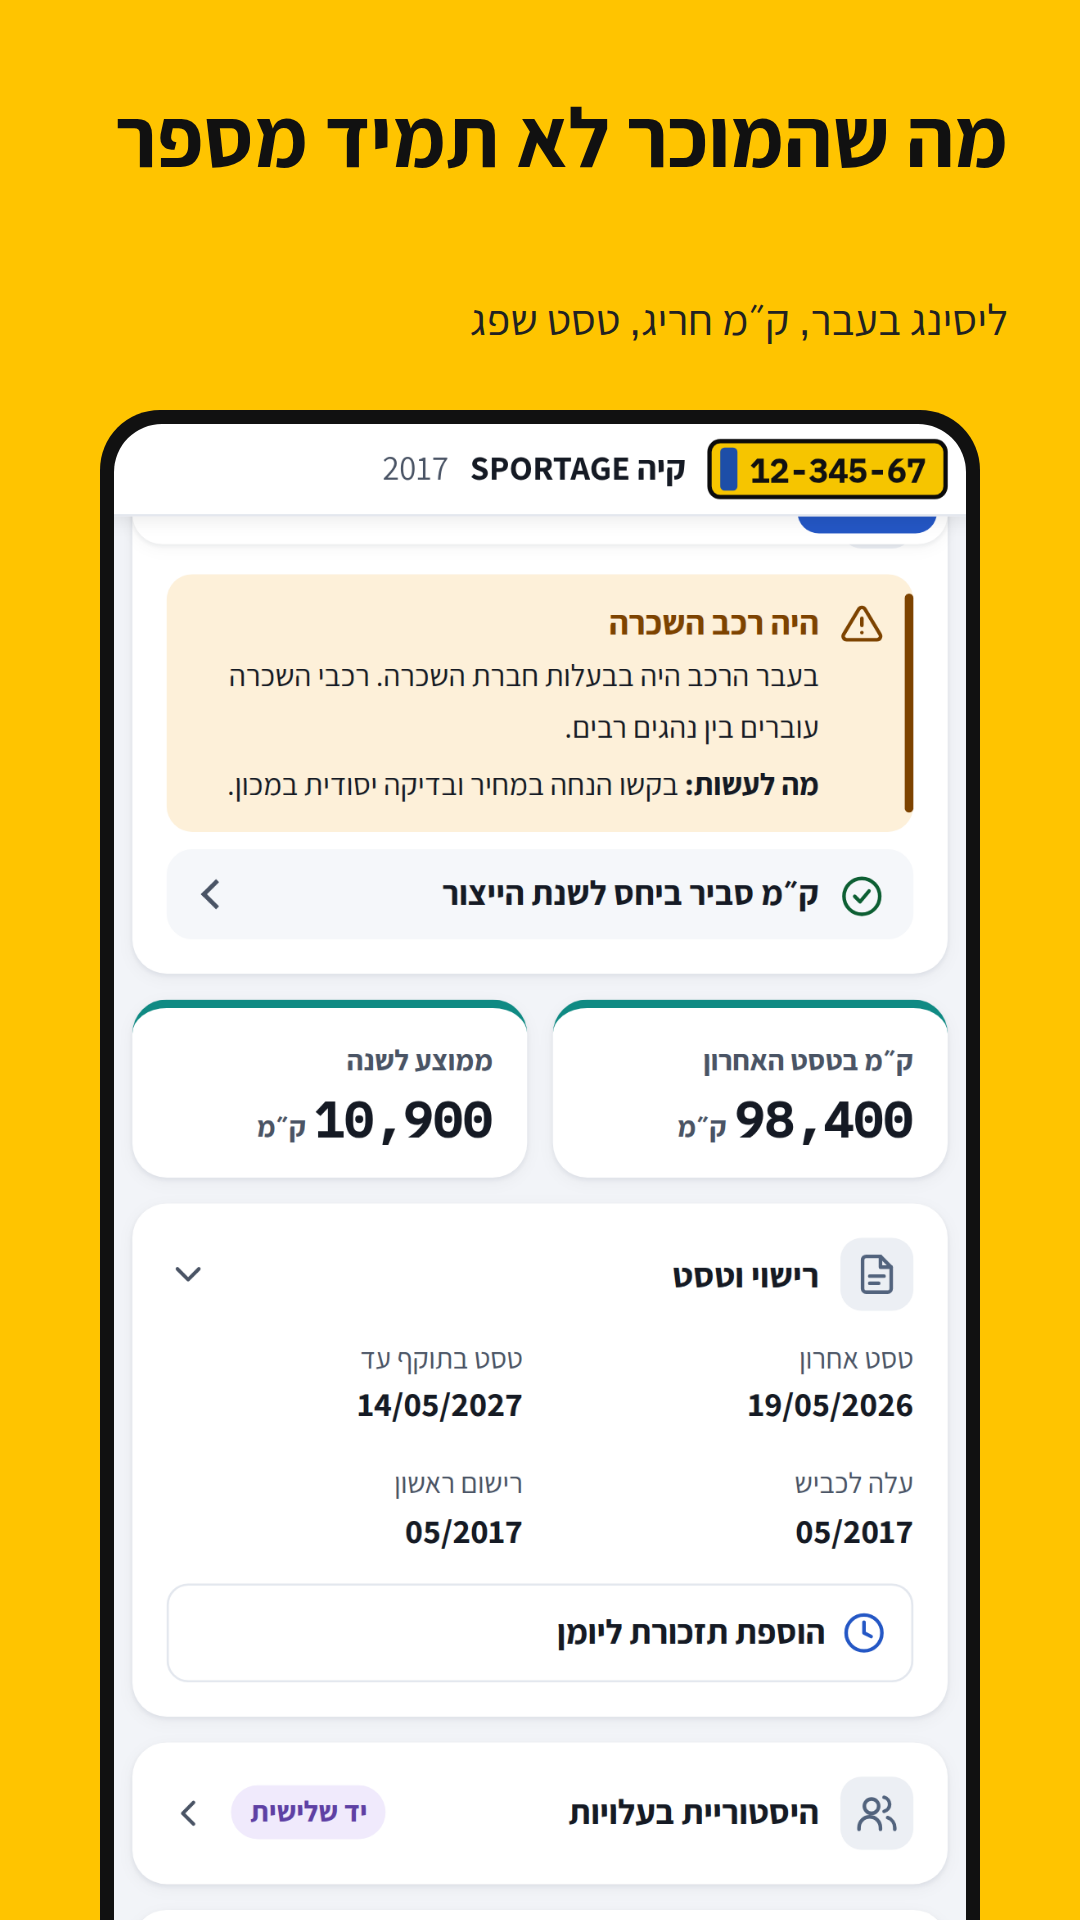
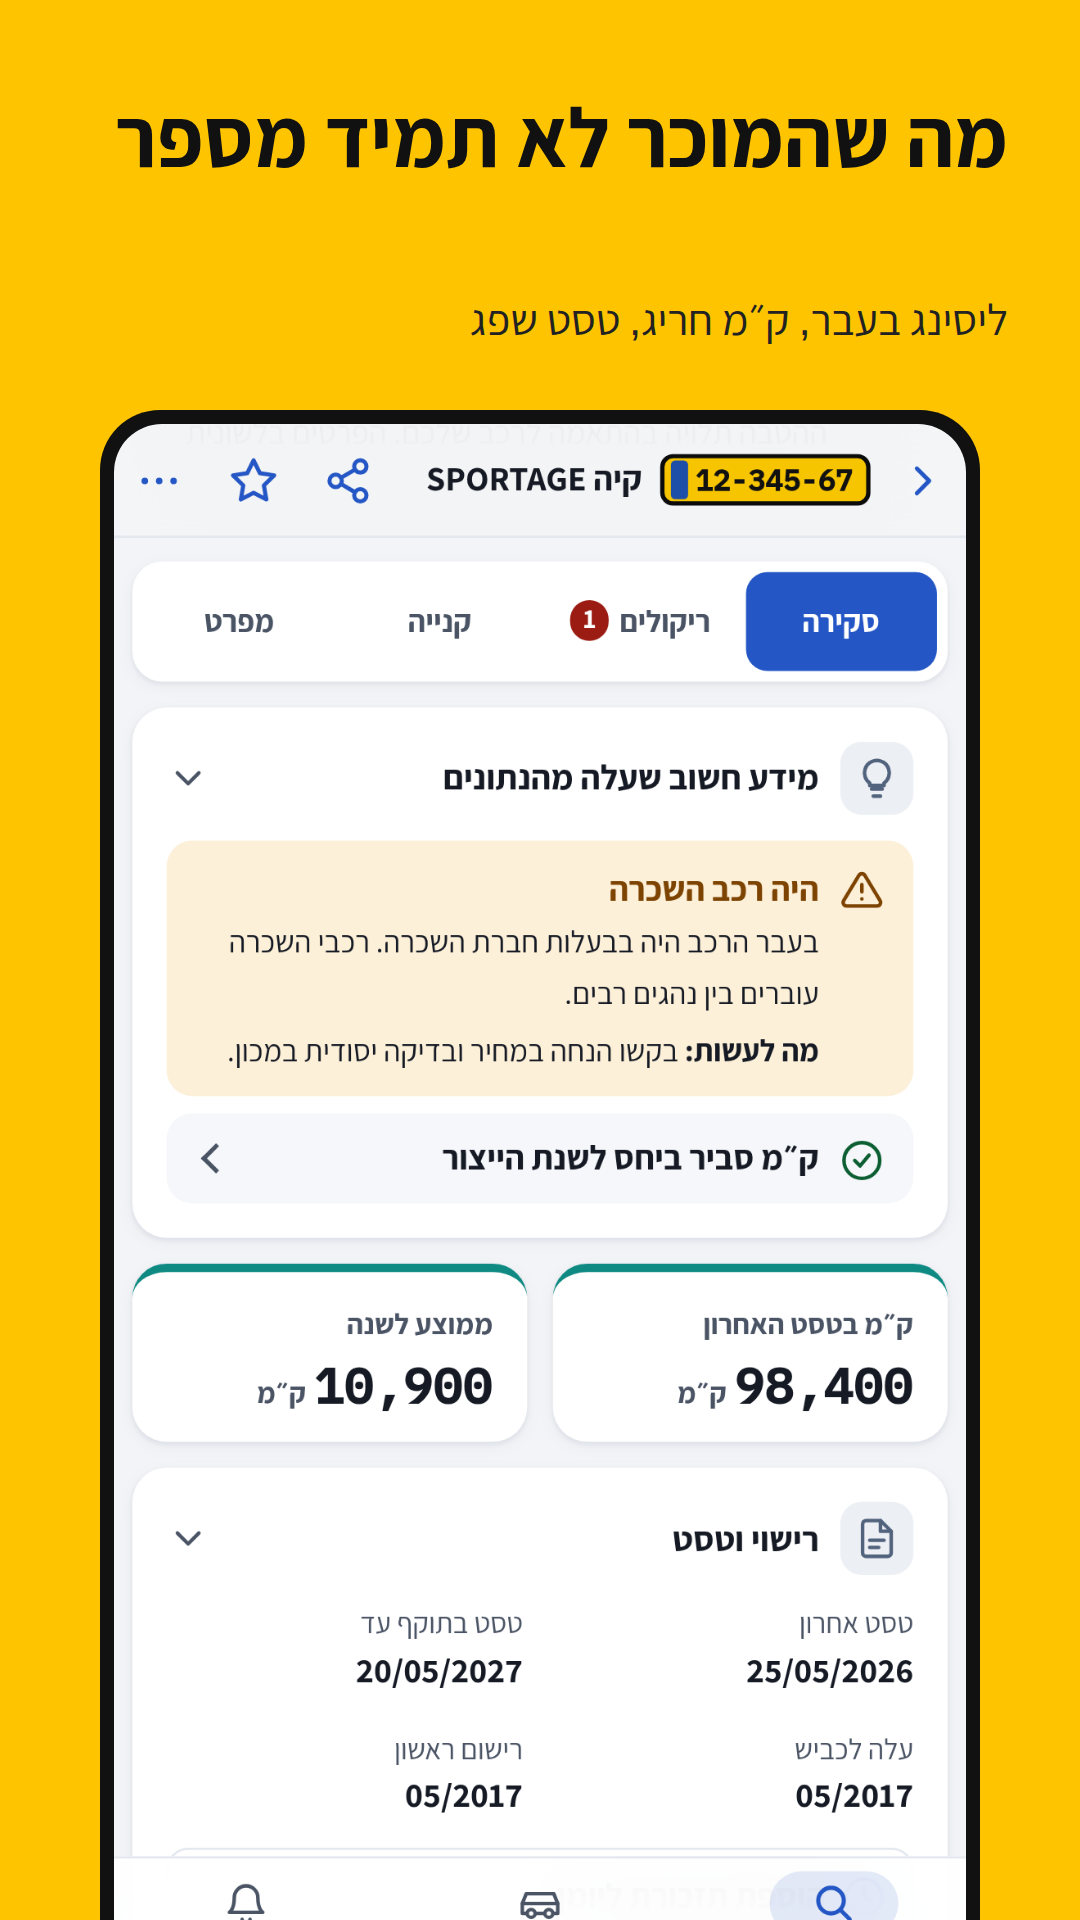
Release audit: store screenshots of the new UI, a screens pass in the UI guardian, 40px tap targets
- Store screenshots retaken on the new UI (bottom bar, car header, "תיק הרכב" in place of the old costs tab).
- ui-guardian also opens home (new and returning), "הרכבים שלי" (list, table, empty), "התראות" and a tool,
  and checks each shows its own header, keeps the bottom bar, shows the search band only on home and never overflows.
- View toggle, filter chips, alert actions, plate buttons and table rows reach 40px; the recent-updates plate
  matches the alert items. A link inside a sentence is exempt from the tap-size count, as in WCAG 2.5.8.

Claude-Session: https://claude.ai/code/session_01Hcz5PRF5bg4nFBWTs1PoVE

diff --git a/index.html b/index.html
@@ -511,7 +511,7 @@ textarea.inp{font-family:var(--f-num);min-height:110px;resize:vertical}
 .bulk-acts{display:flex;flex-direction:column;gap:8px;margin-top:8px}
 .rep-brand.biz{background:var(--soft,#f2f4f8);border-bottom:3px solid #1d4ea8;border-radius:10px}.rep-brand.biz img{width:48px;height:48px;object-fit:contain;border-radius:8px;box-shadow:none}.rep-brand.biz b{font-size:1.3rem}
 .ft{width:100%;border-collapse:collapse;font-size:.9rem}.ft td,.ft th{padding:8px 4px;border-top:1px solid var(--line);text-align:center}.ft td:first-child,.ft th:first-child{text-align:start}.ft th{font-size:.78rem;color:var(--muted);font-weight:600;border-top:0}button.lnk{border:0;background:none;padding:0;font:inherit;font-weight:700;color:var(--accent);text-decoration:underline;text-underline-offset:2px;cursor:pointer}
-.ft button.lnk small{display:block}.ft td.svl small{display:block;color:var(--muted);font-size:.75rem}.ft button.lnk b{white-space:nowrap}.ft td small.rc{display:block;font-size:.75rem;font-weight:700}.ft button.lnk{border:0;background:none;color:inherit;text-decoration:none;font-weight:inherit;font:inherit;text-align:start;padding:0;display:block}
+.ft button.lnk small{display:block}.ft td.svl small{display:block;color:var(--muted);font-size:.75rem}.ft button.lnk b{white-space:nowrap}.ft td small.rc{display:block;font-size:.75rem;font-weight:700}.ft button.lnk{border:0;background:none;color:inherit;text-decoration:none;font-weight:inherit;font:inherit;text-align:start;padding:0;display:block;min-height:40px}
 .mk-seg{margin-bottom:10px}.mk-chips{display:flex;gap:6px;flex-wrap:wrap;margin:8px 0 2px}
 .mk-chips button{border:1px solid var(--line);background:var(--card);color:var(--fg);border-radius:999px;padding:6px 12px;font-weight:700}
 .mk-chips button[aria-pressed="true"]{background:var(--fg);color:var(--card);border-color:var(--fg)}
@@ -686,10 +686,10 @@ html.web main#out > .chead{grid-column:1/-1}
 .dot.ok{color:var(--t-green);background:var(--t-green)}.dot.warn{color:var(--t-amber);background:var(--t-amber)}.dot.bad{color:var(--t-red);background:var(--t-red)}
 /* list or table: one switch, the same cars */
 .vseg{display:grid;grid-template-columns:1fr 1fr;padding:4px;border-radius:14px;background:color-mix(in srgb,var(--accent) 10%,transparent)}
-.vseg button{border:0;background:none;height:36px;border-radius:11px;font-weight:800;color:var(--accent)}
+.vseg button{border:0;background:none;height:40px;border-radius:11px;font-weight:800;color:var(--accent)}
 .vseg button[aria-selected=true]{background:var(--accent);color:var(--accent-fg);box-shadow:0 6px 16px -8px var(--accent)}
 .fchips{display:flex;gap:8px;overflow-x:auto;scrollbar-width:none;margin-inline:-16px;padding-inline:16px}.fchips::-webkit-scrollbar{display:none}
-.fchips button{flex:0 0 auto;height:34px;padding:0 14px;border-radius:999px;border:1px solid var(--line);background:var(--card);color:var(--muted);font-weight:700;font-size:.9rem}
+.fchips button{flex:0 0 auto;height:40px;padding:0 14px;border-radius:999px;border:1px solid var(--line);background:var(--card);color:var(--muted);font-weight:700;font-size:.9rem}
 .fchips button[aria-pressed=true]{background:var(--fg);border-color:var(--fg);color:var(--bg)}
 /* a saved car: no stock picture; the card shows the one thing that matters for this car now */
 .ccards{display:grid;gap:12px}
@@ -751,8 +751,8 @@ body.kb .cfab{display:none}
 .aitem.warn .ai{background:var(--warn-bg);color:var(--warn)}.aitem.info .ai{background:var(--soft);color:var(--muted)}
 .aitem .t{flex:1;min-width:0;display:grid;gap:2px}.aitem .t small{color:var(--muted)}
 .aitem .acts{display:flex;align-items:center;gap:10px;margin-top:8px;flex-wrap:wrap}
-.aitem .acts .mini-plate{font-size:.85rem;padding:1px 6px 1px 3px;border:0;cursor:pointer}
-.aitem .acts .ago{border:0;background:none;color:var(--accent);font-weight:800;padding:6px 2px;margin-inline-start:auto}
+.aitem .acts .ap,.arow .ap{border:0;background:none;padding:0;min-height:40px;display:flex;align-items:center;cursor:pointer;flex:0 0 auto}.aitem .acts .mini-plate,.arow .ap .mini-plate{font-size:.85rem;padding:1px 6px 1px 3px;border:0}
+.aitem .acts .ago{border:0;background:none;color:var(--accent);font-weight:800;min-height:40px;padding:0 8px;margin-inline-start:auto}
 .allok{display:flex;align-items:center;gap:12px;background:var(--card);border-radius:18px;padding:16px;box-shadow:var(--shadow)}
 .allok .ai{width:40px;height:40px;border-radius:50%;display:grid;place-items:center;flex:0 0 auto;background:var(--ok-bg);color:var(--ok)}
 .arows{display:grid;background:var(--card);border-radius:18px;box-shadow:var(--shadow);overflow:hidden}
@@ -5914,10 +5914,10 @@ function renderAlerts(){
   if (!all.length) html.push(emptyCard("אין עדיין רכבים לעקוב אחריהם", "bell", "blue", `<p style="margin:0 0 10px">שומרים רכב בכוכב שבראש הדוח, ומכאן רואים ריקול פתוח וטסט שמתקרב${alertsSupported() ? ", ומקבלים התראה לטלפון" : ""}.</p><button type="button" class="link-btn" data-act="addCar">${ico("search")}בדיקת רכב</button>`));
   else if (!items.length) html.push(`<div class="allok"><span class="ai">${ico("check")}</span><div><b>הכול תקין</b><br><small style="color:var(--muted)">אין ריקול פתוח ואין טסט בחודש הקרוב. נתריע כשמשהו ישתנה.</small></div></div>`);
   else html.push(`<div class="aitems">${items.map((x, i) => `<div class="aitem ${x.lv}"><span class="ai">${ico(x.go === "cal" ? "clock" : "alert")}</span><div class="t"><b>${esc(x.t)}</b><small>${esc(x.b)}</small>
-      <div class="acts"><button type="button" class="mini-plate" data-open="${x.s.plate}" aria-label="פתיחת הרכב ${fmtPlate(x.s.plate)}"><i></i>${fmtPlate(x.s.plate)}</button><button type="button" class="ago" data-aitem="${i}">${x.g || "פרטים"}</button></div></div></div>`).join("")}</div>`);
+      <div class="acts"><button type="button" class="ap" data-open="${x.s.plate}" aria-label="פתיחת הרכב ${fmtPlate(x.s.plate)}"><span class="mini-plate"><i></i>${fmtPlate(x.s.plate)}</span></button><button type="button" class="ago" data-aitem="${i}">${x.g || "פרטים"}</button></div></div></div>`).join("")}</div>`);
   // what changed lately: the daily check's log of each car, the last two weeks
   const since = Date.now() - 14 * 864e5, ev = all.flatMap(s => (s.events || []).filter(e => e.t >= since).map(e => ({...e, s}))).sort((a, b) => b.t - a.t).slice(0, 6);
-  if (ev.length) html.push(`<div class="qhead">עדכונים אחרונים</div><div class="arows">${ev.map(e => `<div class="arow"><div class="t"><b>${esc(e.x)}</b><small>${esc(e.s.nick || e.s.title)} · ${esc(dmy(e.t))}</small></div><button type="button" class="mini-plate" data-open="${e.s.plate}" aria-label="פתיחת הרכב"><i></i>${fmtPlate(e.s.plate)}</button></div>`).join("")}</div>`);
+  if (ev.length) html.push(`<div class="qhead">עדכונים אחרונים</div><div class="arows">${ev.map(e => `<div class="arow"><div class="t"><b>${esc(e.x)}</b><small>${esc(e.s.nick || e.s.title)} · ${esc(dmy(e.t))}</small></div><button type="button" class="ap" data-open="${e.s.plate}" aria-label="פתיחת הרכב ${fmtPlate(e.s.plate)}"><span class="mini-plate"><i></i>${fmtPlate(e.s.plate)}</span></button></div>`).join("")}</div>`);
   if (all.length) {
     if (alertsSupported()) {
       let st = "off"; try { st = window.AndroidApp.alertsState(); } catch {}
